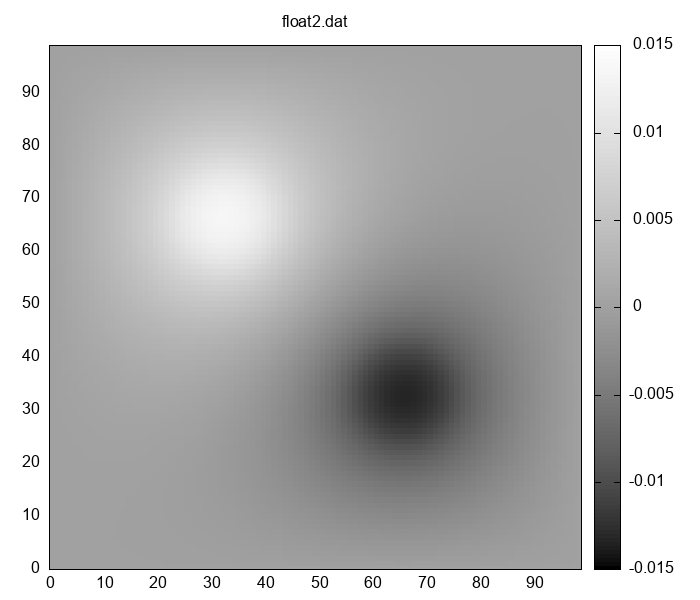
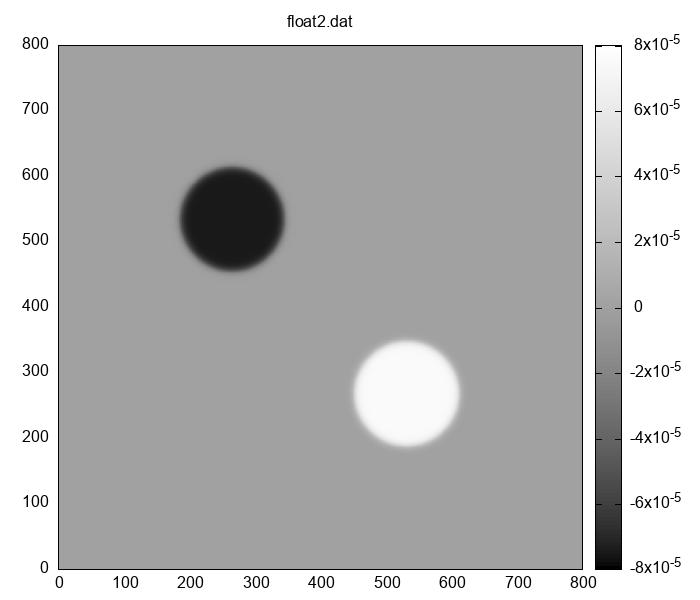
поменял 2 массива пар <value, heat> на два массива value и 1 heat

diff --git a/lab-1/src/poisson_equation_solver.cpp b/lab-1/src/poisson_equation_solver.cpp
@@ -35,20 +35,26 @@ PoissonEquationSolver::PoissonEquationSolver(const std::string &config_file) :
 
         m_previous_grid = std::make_shared<std::vector<std::vector<std::pair<float, float>>>>
             (std::vector<std::vector<std::pair<float, float>>> (m_Nx, std::vector<std::pair<float, float>>(m_Ny, {0.0, 0.0})));
+
+        m_value_grid = std::make_shared<std::vector<std::vector<float>>> (m_Nx, std::vector<float>(m_Ny, 0.0));
+        m_previous_value_grid = std::make_shared<std::vector<std::vector<float>>> (m_Nx, std::vector<float>(m_Ny, 0.0));
+        m_heat_grid = std::make_shared<std::vector<std::vector<float>>> (m_Nx, std::vector<float>(m_Ny, 0.0));
+
+
         m_deltas = std::vector<float> (m_Nt, 0.0);
 
-        for (int i {}; i < m_Nx; ++i) {
-            for (int j {}; j < m_Ny; ++j) {
-                // m_grid[i][j].first = 0.0;
-                // m_grid[i][j].second = 0.0;
-
-                m_grid->at(i).at(j).first = 0.0;
-                m_grid->at(i).at(j).second = 0.0;
-
-                m_previous_grid->at(i).at(j).first = 0.0;
-                m_previous_grid->at(i).at(j).second = 0.0;
-            }
-        }
+        // for (int i {}; i < m_Nx; ++i) {
+        //     for (int j {}; j < m_Ny; ++j) {
+        //         // m_grid[i][j].first = 0.0;
+        //         // m_grid[i][j].second = 0.0;
+        //
+        //         m_grid->at(i).at(j).first = 0.0;
+        //         m_grid->at(i).at(j).second = 0.0;
+        //
+        //         m_previous_grid->at(i).at(j).first = 0.0;
+        //         m_previous_grid->at(i).at(j).second = 0.0;
+        //     }
+        // }
         for (auto& heat_source : m_heat_sources) {
             for (int j {}; j < m_Ny; ++j) {
                 for (int i {}; i < m_Nx; ++i) {
@@ -58,7 +64,11 @@ PoissonEquationSolver::PoissonEquationSolver(const std::string &config_file) :
                     if (heat_source.is_has_point(x_i, y_j)) {
                         m_grid->at(i).at(j).first = heat_source.get_heat();
                         m_previous_grid->at(i).at(j).first = heat_source.get_heat();
+
+
                         // m_grid[j][i].first = heat_source.get_heat();
+
+                        (*m_heat_grid)[i][j] = heat_source.get_heat();
                     }
                 }
             }
@@ -129,6 +139,28 @@ float PoissonEquationSolver::calc_new_value(const float F_im1_jm1, const float F
     return result;
 };
 
+void PoissonEquationSolver::solve2() {
+    for (int time {}; time < m_Nt; ++time) {
+        float delta = INT_MIN;
+        std::swap(m_previous_value_grid, m_value_grid);
+        for (int i {1}; i < m_Ny - 1; ++i) {
+            for (int j {1}; j < m_Nx - 1; ++j) {
+                (*m_value_grid)[i][j] = calc_new_value((*m_previous_value_grid)[i-1][j-1], (*m_previous_value_grid)[i-1][j], (*m_previous_value_grid)[i-1][j+1],
+                                                         (*m_previous_value_grid)[i][j-1],                                              (*m_previous_value_grid)[i][j+1],
+                                                        (*m_previous_value_grid)[i+1][j-1],  (*m_previous_value_grid)[i+1][j], (*m_previous_value_grid)[i+1][j+1],
+
+                                                                                                    (*m_heat_grid)[i-1][j],
+                                                         (*m_heat_grid)[i][j-1],                (*m_heat_grid)[i][j],               (*m_heat_grid)[i][j+1],
+                                                                                                     (*m_heat_grid)[i+1][j]
+                                              );
+
+                delta = std::max(delta, std::abs((*m_previous_value_grid)[i][j] - (*m_value_grid)[i][j]));
+
+            }
+        }
+        m_deltas[time] = delta;
+    }
+}
 void PoissonEquationSolver::solve() {
 
     for (int time {}; time < m_Nt; ++time) {
@@ -173,7 +205,23 @@ void PoissonEquationSolver::export_grid_value_as_matrix(const std::string &file_
 
     output.close();
 }
+void PoissonEquationSolver::export_grid_value_as_matrix2(const std::string &file_path) const {
+    std::ofstream output (file_path, std::ios::out);
+    if (!output.is_open()) {
+        std::cerr << "Failed to open file: " << "float2.dat" << std::endl;
+        throw std::exception();
+    }
 
+
+    for (int i {}; i < m_value_grid->size(); ++i) {
+        for (int j {}; j < (*m_value_grid)[i].size(); ++j) {
+            output << (*m_value_grid)[i][j] << " ";
+        }
+        output << "\n";
+    }
+
+    output.close();
+}
 
 void PoissonEquationSolver::check_deltas() const {
     int k {};

diff --git a/lab-1/src/poisson_equation_solver.hpp b/lab-1/src/poisson_equation_solver.hpp
@@ -38,6 +38,11 @@ private:
     std::vector<HeatSourceCircle> m_heat_sources;
     std::shared_ptr<std::vector<std::vector<std::pair<float, float>>>> m_grid; //first - heat, second - function value
     std::shared_ptr<std::vector<std::vector<std::pair<float, float>>>> m_previous_grid; //first - heat, second - function value
+
+    std::shared_ptr<std::vector<std::vector<float>>> m_value_grid;
+    std::shared_ptr<std::vector<std::vector<float>>> m_previous_value_grid;
+    std::shared_ptr<std::vector<std::vector<float>>> m_heat_grid;
+
     std::vector<float> m_deltas;
 
 public:
@@ -54,7 +59,11 @@ public:
 
     void solve();
 
+    void solve2();
+
     void export_grid_value_as_matrix(const std::string& file_path) const;
+
+    void export_grid_value_as_matrix2(const std::string& file_path) const;
 
     void check_deltas() const;
 };

diff --git a/lab-1/src/main.cpp b/lab-1/src/main.cpp
@@ -4,8 +4,10 @@
 
 int main() {
     PoissonEquationSolver solver {"../config.json"};
-    solver.solve();
-    solver.export_grid_value_as_matrix("../float2.dat");
+    // solver.solve();
+    solver.solve2();
+    // solver.export_grid_value_as_matrix("../float2.dat");
+    solver.export_grid_value_as_matrix2("../float2.dat");
     solver.check_deltas();
 
 
